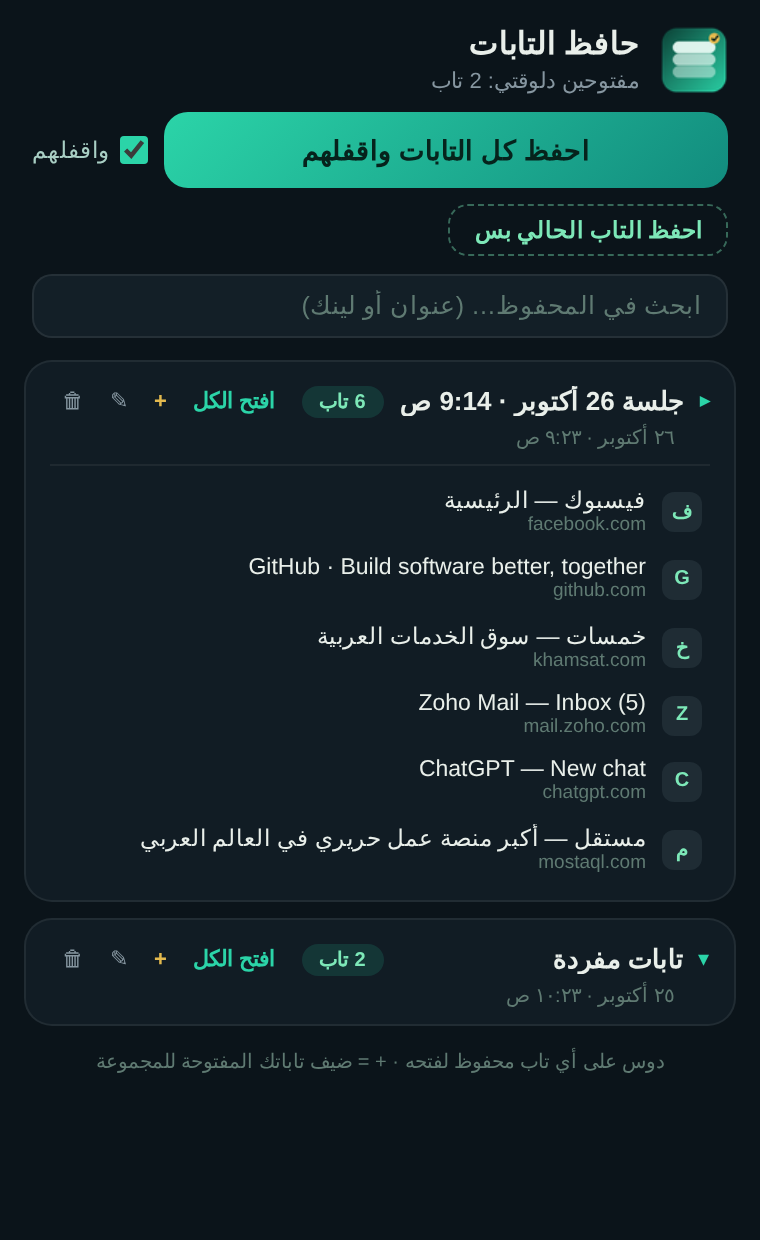
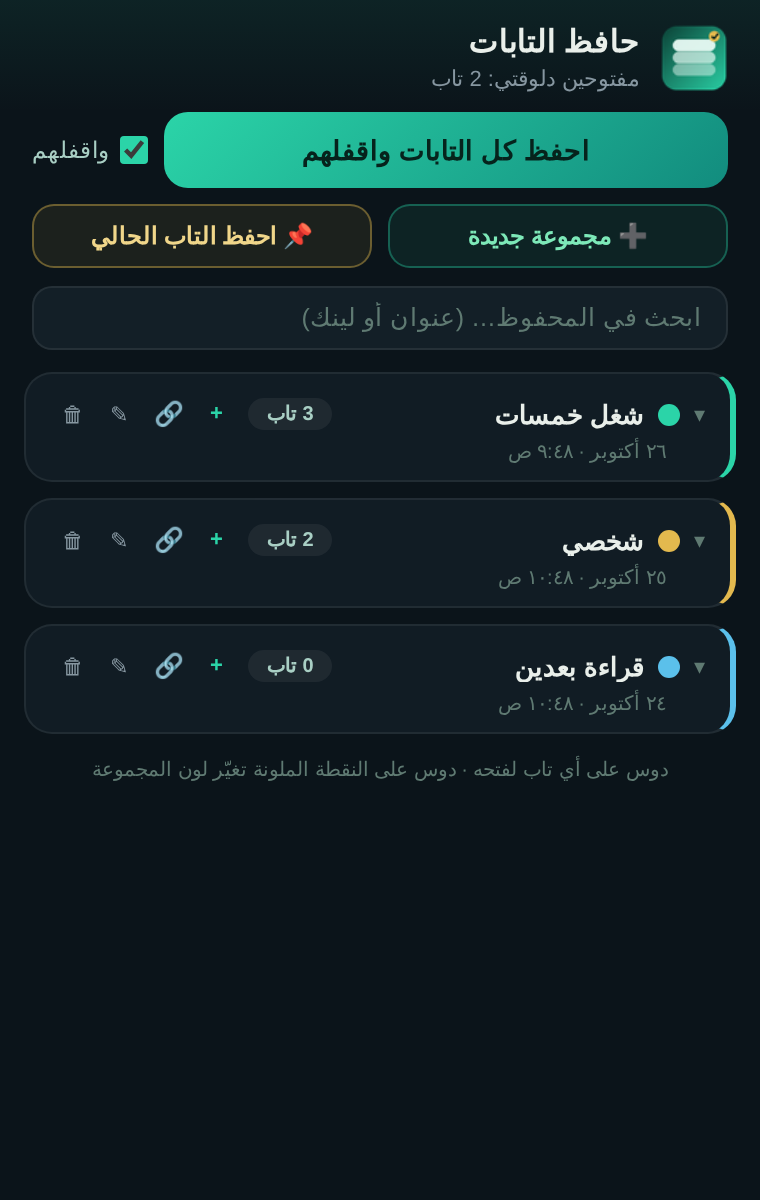
tab-keeper v2.0: side panel + colored groups + manual add

diff --git a/tab-keeper.html b/tab-keeper.html
@@ -42,7 +42,7 @@ h1 .gr{color:#7DE8B8}
   <header>
     <img src="tab-keeper-icon.png" class="logo" alt="أيقونة حافظ التابات">
     <h1>حافظ <span class="gr">التابات</span></h1>
-    <p class="tag">كستنشن كروم بيحفظلك كل التابات المفتوحة في مجموعات بضغطة واحدة، ويقفلهم، ويرجّعهم في أي وقت — والمتصفح يبقى نضيف من غير تشتيت.</p>
+    <p class="tag">كستنشن كروم بيحفظلك تاباتك في مجموعات <b style="color:#7DE8B8">مُلَوَّنة</b> بضغطة واحدة، وبيفتحلك <b style="color:#F0D68A">لوحة ثابتة على جنب الشاشة</b> — وصنّف بنفسك زي ما انت عايز.</p>
   </header>
 
   <a class="cta" href="tab-keeper.zip" download>⬇ حمّل الكستنشن (ZIP)</a>
@@ -54,10 +54,21 @@ h1 .gr{color:#7DE8B8}
     <h2>التركيب — دقيقتين ومرة واحدة</h2>
     <ol>
       <li>فك ضغط الملف — هيطلعلك فولدر اسمه <b>tab-keeper</b></li>
+      <li>لو النسخة القديمة مركّبة عندك: افتح <b>chrome://extensions</b> ودوس زرار <b>التحديث</b> في كارت الكستنشن — خلص ✅</li>
       <li>افتح كروم واكتب في العنوان: <b>chrome://extensions</b> واضغط Enter</li>
       <li>شغّل زرار <b>Developer mode</b> (فوق في الصفحة)</li>
       <li>دوس <b>Load unpacked</b> واختار فولدر <b>tab-keeper</b></li>
       <li>دوس أيقونة <b>الدبوس</b> اللي جنب الكستنشن عشان يفضل ظاهر دايمًا ✅</li>
+    </ol>
+  </div>
+
+  <div class="card">
+    <h2>جديد النسخة 2.0</h2>
+    <ol>
+      <li><b>لوحة على جنب الشاشة</b> — أيقونة الكستنشن بتفتحه Panel ثابت ويفضل مفتوح وإنت بتتصفح</li>
+      <li><b>ألوان للمجموعات</b> — كل مجموعة ليها لونها، دوس على النقطة تغيّره</li>
+      <li><b>صنّف بنفسك</b> — «➕ مجموعة جديدة» واكتب اسمها، و«🔗» تضيف أي لينك بنفسك</li>
+      <li><b>📌 احفظ التاب الحالي</b> — تختار هو ينزل في أنهي مجموعة</li>
     </ol>
   </div>
 
@@ -73,7 +84,7 @@ h1 .gr{color:#7DE8B8}
     <div class="note">🔒 كل حاجة بتتخزن على جهازك انت بس — مفيش أي بيانات بتتبعت لأي حد، حتى لو قفلت كروم وفتحته المحفوظ زي ما هو.</div>
   </div>
 
-  <p class="foot">حافظ التابات · الإصدار 1.0 · لينك ثابت — احفظ الصفحة دي عشان ترجعلها في أي وقت</p>
+  <p class="foot">حافظ التابات · الإصدار 2.0 · لينك ثابت — احفظ الصفحة دي عشان ترجعلها في أي وقت</p>
 </div>
 </body>
 </html>
